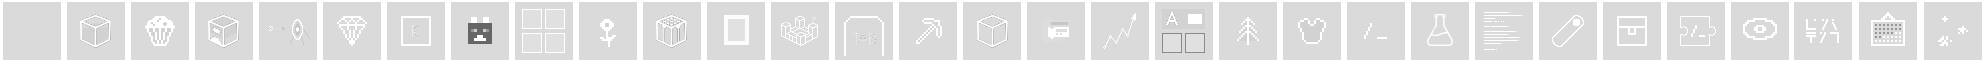
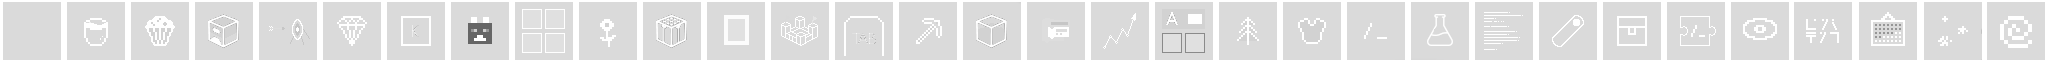
Added Gamerule mod element very WIP atm

Changed region(s): [[0.0312, 0.0312, 1.0, 0.9375]]

diff --git a/src/main/java/net/mcreator/ui/modgui/GameruleGUI.java b/src/main/java/net/mcreator/ui/modgui/GameruleGUI.java
@@ -1,0 +1,145 @@
+/*
+ * MCreator (https://mcreator.net/)
+ * Copyright (C) 2020 Pylo and contributors
+ *
+ * This program is free software: you can redistribute it and/or modify
+ * it under the terms of the GNU General Public License as published by
+ * the Free Software Foundation, either version 3 of the License, or
+ * (at your option) any later version.
+ *
+ * This program is distributed in the hope that it will be useful,
+ * but WITHOUT ANY WARRANTY; without even the implied warranty of
+ * MERCHANTABILITY or FITNESS FOR A PARTICULAR PURPOSE.  See the
+ * GNU General Public License for more details.
+ *
+ * You should have received a copy of the GNU General Public License
+ * along with this program.  If not, see <https://www.gnu.org/licenses/>.
+ */
+
+package net.mcreator.ui.modgui;
+
+import net.mcreator.blockly.data.Dependency;
+import net.mcreator.element.parts.TabEntry;
+import net.mcreator.element.types.Gamerule;
+import net.mcreator.element.types.MusicDisc;
+import net.mcreator.minecraft.DataListEntry;
+import net.mcreator.minecraft.ElementUtil;
+import net.mcreator.ui.MCreator;
+import net.mcreator.ui.MCreatorApplication;
+import net.mcreator.ui.component.util.ComboBoxUtil;
+import net.mcreator.ui.component.util.ComponentUtils;
+import net.mcreator.ui.component.util.PanelUtils;
+import net.mcreator.ui.dialogs.BlockItemTextureSelector;
+import net.mcreator.ui.help.HelpUtils;
+import net.mcreator.ui.init.L10N;
+import net.mcreator.ui.minecraft.DataListComboBox;
+import net.mcreator.ui.minecraft.ProcedureSelector;
+import net.mcreator.ui.minecraft.SoundSelector;
+import net.mcreator.ui.minecraft.TextureHolder;
+import net.mcreator.ui.validation.AggregatedValidationResult;
+import net.mcreator.ui.validation.ValidationGroup;
+import net.mcreator.ui.validation.component.VTextField;
+import net.mcreator.ui.validation.validators.TextFieldValidator;
+import net.mcreator.ui.validation.validators.TileHolderValidator;
+import net.mcreator.util.StringUtils;
+import net.mcreator.workspace.elements.ModElement;
+import org.jetbrains.annotations.Nullable;
+
+import javax.swing.*;
+import java.awt.*;
+import java.net.URI;
+import java.net.URISyntaxException;
+import java.util.stream.Collectors;
+
+public class GameruleGUI extends ModElementGUI<Gamerule> {
+
+	private final VTextField name = new VTextField(20);
+	private final VTextField ID = new VTextField(20);
+
+	private final JCheckBox isInteger = L10N.checkbox("elementgui.common.enable");
+	private final JCheckBox isBoolean = L10N.checkbox("elementgui.common.enable");
+
+	private final ValidationGroup page1group = new ValidationGroup();
+
+	public GameruleGUI(MCreator mcreator, ModElement modElement, boolean editingMode) {
+		super(mcreator, modElement, editingMode);
+		this.initGUI();
+		super.finalizeGUI();
+	}
+
+	@Override protected void initGUI() {
+		isInteger.setOpaque(false);
+		isBoolean.setOpaque(false);
+
+		JPanel pane3 = new JPanel(new BorderLayout());
+
+		ComponentUtils.deriveFont(name, 16);
+		ComponentUtils.deriveFont(ID, 16);
+
+		JPanel subpane2 = new JPanel(new GridLayout(4, 2, 45, 8));
+		subpane2.setOpaque(false);
+
+		ComponentUtils.deriveFont(name, 16);
+
+		subpane2.add(HelpUtils.wrapWithHelpButton(this.withEntry(""),
+				L10N.label("elementgui.gamerule.name")));
+		subpane2.add(name);
+
+		subpane2.add(HelpUtils.wrapWithHelpButton(this.withEntry(""),
+				L10N.label("elementgui.gamerule.id")));
+		subpane2.add(ID);
+
+		subpane2.add(HelpUtils.wrapWithHelpButton(this.withEntry(""),
+				L10N.label("elementgui.gamerule.is_integer")));
+		subpane2.add(isInteger);
+
+		subpane2.add(HelpUtils.wrapWithHelpButton(this.withEntry(""),
+				L10N.label("elementgui.gamerule.is_boolean")));
+		subpane2.add(isBoolean);
+
+		page1group.addValidationElement(name);
+		page1group.addValidationElement(ID);
+
+		name.setValidator(new TextFieldValidator(name, L10N.t("elementgui.gamerule.gamerule_needs_name")));
+		name.enableRealtimeValidation();
+
+		ID.setValidator(new TextFieldValidator(ID, L10N.t("elementgui.gamerule.gamerule_needs_id")));
+		ID.enableRealtimeValidation();
+
+		pane3.add(PanelUtils.totalCenterInPanel(subpane2));
+		pane3.setOpaque(false);
+
+		addPage(L10N.t("elementgui.common.page_properties"), pane3);
+
+		if (!isEditingMode()) {
+			String readableNameFromModElement = StringUtils.machineToReadableName(modElement.getName());
+			name.setText(readableNameFromModElement);
+		}
+	}
+
+	@Override protected AggregatedValidationResult validatePage(int page) {
+		if (page == 0)
+			return new AggregatedValidationResult(page1group);
+		return new AggregatedValidationResult.PASS();
+	}
+
+	@Override public void openInEditingMode(Gamerule gamerule) {
+		name.setText(gamerule.name);
+		ID.setText(gamerule.ID);
+		isInteger.setSelected(gamerule.isInteger);
+		isBoolean.setSelected(gamerule.isBoolean);
+	}
+
+	@Override public Gamerule getElementFromGUI() {
+		Gamerule gamerule = new Gamerule(modElement);
+		gamerule.name = name.getText();
+		gamerule.ID = ID.getText();
+		gamerule.isInteger = isInteger.isSelected();
+		gamerule.isBoolean = isBoolean.isSelected();
+		return gamerule;
+	}
+
+	@Override public @Nullable URI getContextURL() throws URISyntaxException {
+		return new URI(MCreatorApplication.SERVER_DOMAIN + "/wiki/how-make-music-disc");
+	}
+}

diff --git a/src/main/java/net/mcreator/element/types/Gamerule.java b/src/main/java/net/mcreator/element/types/Gamerule.java
@@ -1,0 +1,34 @@
+/*
+ * MCreator (https://mcreator.net/)
+ * Copyright (C) 2020 Pylo and contributors
+ *
+ * This program is free software: you can redistribute it and/or modify
+ * it under the terms of the GNU General Public License as published by
+ * the Free Software Foundation, either version 3 of the License, or
+ * (at your option) any later version.
+ *
+ * This program is distributed in the hope that it will be useful,
+ * but WITHOUT ANY WARRANTY; without even the implied warranty of
+ * MERCHANTABILITY or FITNESS FOR A PARTICULAR PURPOSE.  See the
+ * GNU General Public License for more details.
+ *
+ * You should have received a copy of the GNU General Public License
+ * along with this program.  If not, see <https://www.gnu.org/licenses/>.
+ */
+
+package net.mcreator.element.types;
+
+import net.mcreator.element.GeneratableElement;
+import net.mcreator.workspace.elements.ModElement;
+
+public class Gamerule extends GeneratableElement {
+
+	public String name;
+	public String ID;
+	public boolean isInteger;
+	public boolean isBoolean;
+
+	public Gamerule(ModElement element) {
+		super(element);
+	}
+}

diff --git a/src/main/java/net/mcreator/element/ModElementType.java b/src/main/java/net/mcreator/element/ModElementType.java
@@ -83,7 +83,9 @@ public enum ModElementType {
 
 	@SerializedName("function") FUNCTION(BaseType.DATAPACK, RecipeElementType.NONE),
 
-	@SerializedName("painting") PAINTING(BaseType.OTHER, RecipeElementType.NONE);
+	@SerializedName("painting") PAINTING(BaseType.OTHER, RecipeElementType.NONE),
+
+	@SerializedName("gamerule") GAMERULE(BaseType.GAMERULE, RecipeElementType.NONE);
 
 	private final BaseType baseType;
 	private final String description;
@@ -119,7 +121,7 @@ public enum ModElementType {
 	}
 
 	public enum BaseType {
-		BLOCK, ITEM, ARMOR, BIOME, COMMAND, FUEL, ENTITY, TAB, DIMENSION, STRUCTURE, GUI, KEYBIND, PROCEDURE, OVERLAY, POTION, OTHER, DATAPACK, ENCHANTMENT, PARTICLE, /* legacy: */ ACHIEVEMENT
+		BLOCK, ITEM, ARMOR, BIOME, COMMAND, FUEL, ENTITY, TAB, DIMENSION, STRUCTURE, GUI, KEYBIND, PROCEDURE, OVERLAY, POTION, OTHER, DATAPACK, ENCHANTMENT, PARTICLE, GAMERULE, /* legacy: */ ACHIEVEMENT
 	}
 
 }

diff --git a/src/main/java/net/mcreator/element/ModElementTypeRegistry.java b/src/main/java/net/mcreator/element/ModElementTypeRegistry.java
@@ -60,6 +60,7 @@ public final class ModElementTypeRegistry {
 		put(ModElementType.MUSICDISC, new ModTypeRegistration<>(null, 28, MusicDiscGUI::new, MusicDisc.class));
 		put(ModElementType.PAINTING, new ModTypeRegistration<>(null, 30, PaintingGUI::new, Painting.class));
 		put(ModElementType.PARTICLE, new ModTypeRegistration<>(null, 31, ParticleGUI::new, Particle.class));
+		put(ModElementType.GAMERULE, new ModTypeRegistration<>(null, 32, GameruleGUI::new, Gamerule.class));
 	}};
 
 	public static class ModTypeRegistration<GE extends GeneratableElement> {

diff --git a/src/test/java/net/mcreator/integration/TestWorkspaceDataProvider.java b/src/test/java/net/mcreator/integration/TestWorkspaceDataProvider.java
@@ -1258,6 +1258,12 @@ public class TestWorkspaceDataProvider {
 			particle.renderType = new String[] { "OPAQUE", "OPAQUE", "TRANSLUCENT", "LIT" }[valueIndex];
 			particle.additionalExpiryCondition = new Procedure("condition1");
 			return particle;
+		case GAMERULE:
+			Gamerule gamerule = new Gamerule(modElement);
+			gamerule.name = modElement.getName();
+			gamerule.ID = modElement.getName();
+			gamerule.isInteger = _true;
+			gamerule.isBoolean = !_true;
 		default:
 			return null;
 		}
